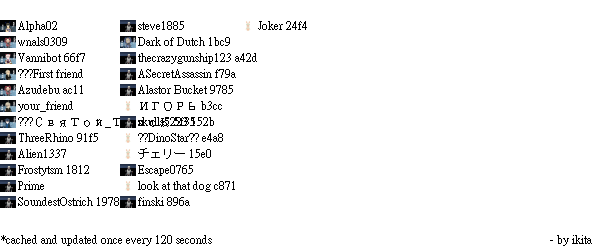
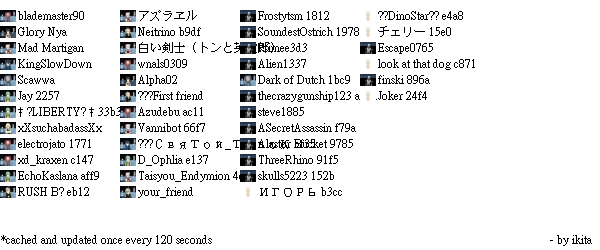
trust known

Changed region(s): [[0.0, 0.028, 0.78, 0.84], [0.6, 0.028, 0.78, 0.084], [0.39, 0.756, 0.57, 0.784]]

diff --git a/time-in-image.js b/time-in-image.js
@@ -127,11 +127,14 @@ const make8x8ImageBufferWith4Colors = worldid=>{
 
 							async.forEachOf(userList, function (value, key, callback) {
 								
-								if ((avatarImg.indexOf(value.currentAvatarImageUrl) > 0 ) && (foundUsers.length < 60)){
+								if (((value.tags) && (((value.tags.indexOf("system_trust_trusted")) > 0) || ((value.tags.indexOf("system_trust_veteran")) > 0))) && (avatarImg.indexOf(value.currentAvatarImageUrl) > 0 ) && (foundUsers.length < 60)){
 									console.log(value.displayName);
 									foundUsers.push({name: value.displayName, img: value.currentAvatarThumbnailImageUrl});
-								}
-								// console.log(value.currentAvatarImageUrl);
+								};
+								// if ((value.tags) && (value.tags.indexOf("system_trust_trusted")) > 0) {
+									// console.log(value.tags.indexOf("system_trust_trusted"));
+								// };
+								
 								callback();
 							}, function (err) {
 								console.log('User list ' + value1.toString() + ' have been processed successfully');
